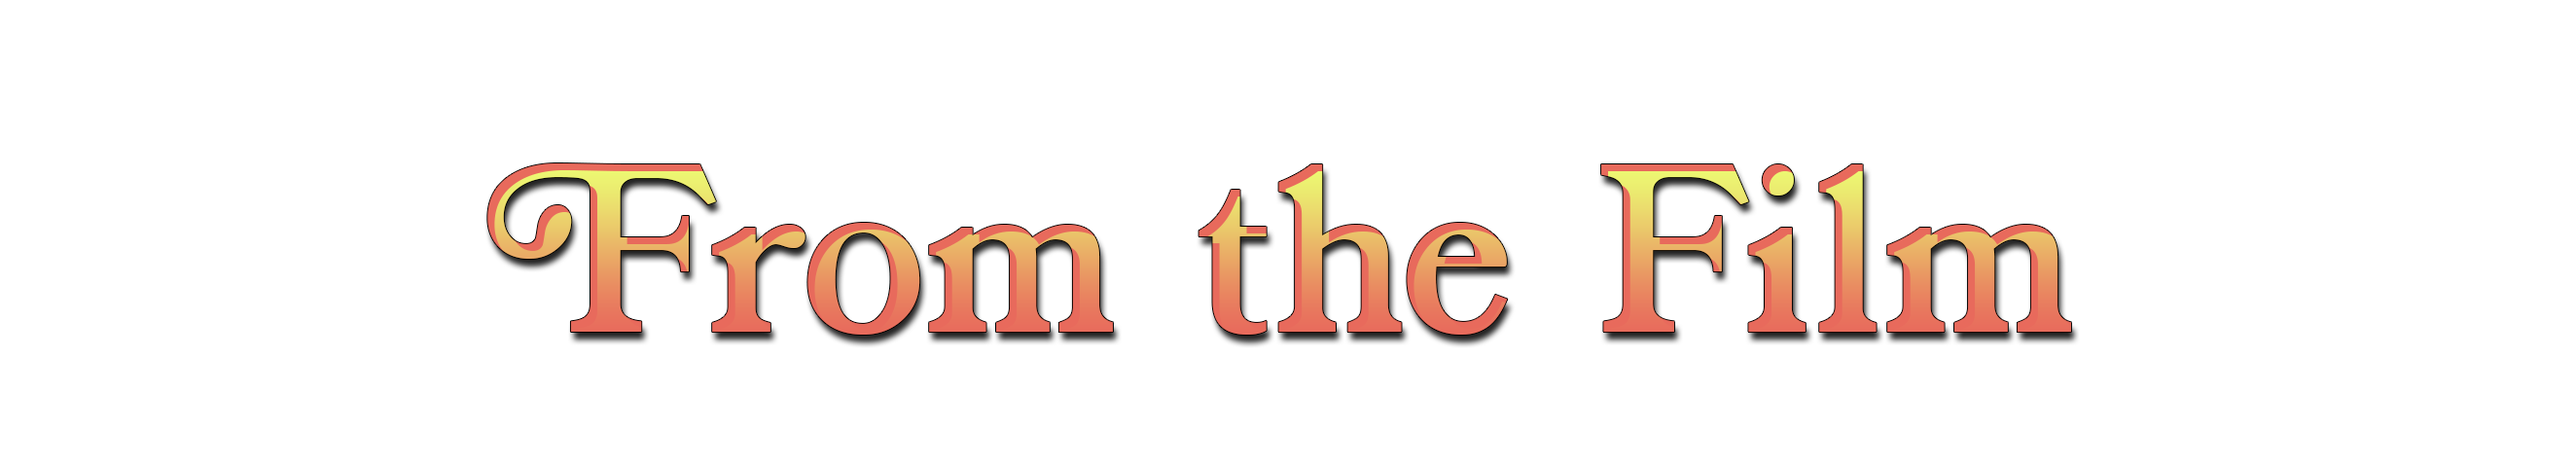
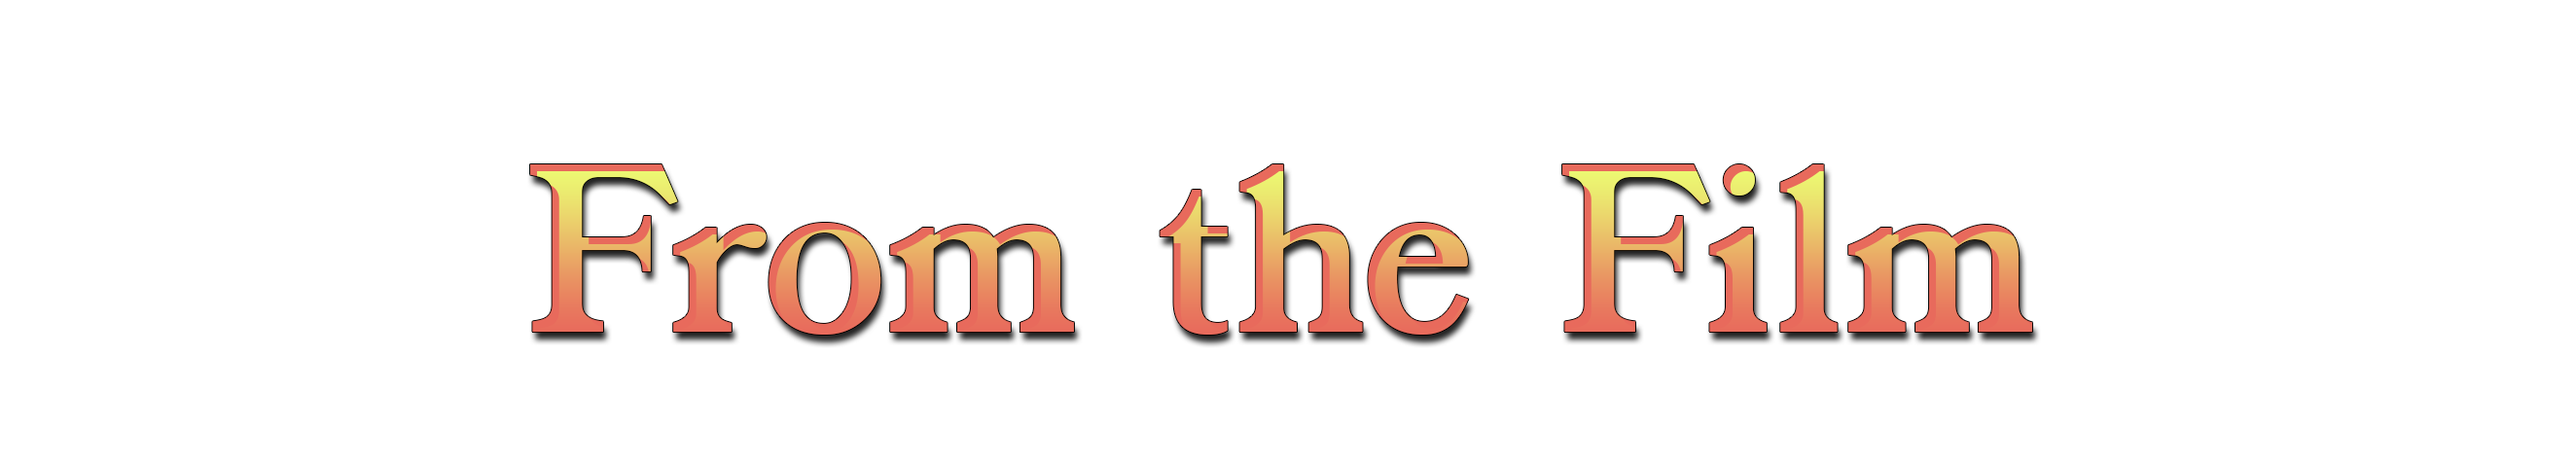
Update some spacing

Changed region(s): [[0.1858, 0.3522, 0.8051, 0.7631]]

diff --git a/src/app/page.tsx b/src/app/page.tsx
@@ -105,13 +105,14 @@ export default function Home() {
         base: 6,
         lg: "192px",
       }}
-      py={{
-        base: 6,
-        lg: 8,
-      }}
     >
-      <Flex justifyContent='center' mb={6}>
-        <HStack spacing={4}>
+      <Flex justifyContent='center' py={6}>
+        <HStack
+          spacing={{
+            base: 10,
+            lg: 12,
+          }}
+        >
           <Flex alignItems='center'>
             <Icon
               as={FaDiscord}
@@ -202,10 +203,9 @@ export default function Home() {
         />
       </AspectRatio>
 
-      <Flex justifyContent='center'>
+      <Flex justifyContent='center' mb={6}>
         <Image
           src='./assets/who-is-bitcoin-title.png'
-          mb={6}
           maxW={{
             base: "100%",
             lg: "600px",
@@ -214,7 +214,7 @@ export default function Home() {
       </Flex>
 
       <Center mb={14}>
-        <Text color='maroon' textAlign='center'>
+        <Text color='maroon' textAlign='center' maxW={600}>
           Here Comes Bitcoin is the central resource for all things Bitcoin
           (puppet, not currency), including license-free creative assets that
           you can use to make anything you want. And we hope you will. If what
@@ -222,10 +222,9 @@ export default function Home() {
         </Text>
       </Center>
 
-      <Flex justifyContent='center'>
+      <Flex justifyContent='center' mb={6}>
         <Image
           src='./assets/make-your-own-asset.png'
-          mb={2}
           maxW={{
             base: "100%",
             lg: "400px",
@@ -233,12 +232,15 @@ export default function Home() {
         />
       </Flex>
 
-      <Text color='maroon' textAlign='center' mb={2}>
-        Need a heavily caricatured bitcoin for your open-source project,
-        conference keynote, or frightening cardboard cutout that lives in your
-        attic? Grab a PNG and have at it. It’s all open-source and license-free.
-        Have a new idea? Submit your own.
-      </Text>
+      <Center>
+        <Text color='maroon' textAlign='center' maxW={600} mb={4}>
+          Need a heavily caricatured bitcoin for your open-source project,
+          conference keynote, or frightening cardboard cutout that lives in your
+          attic? Grab a PNG and have at it. It’s all open-source and
+          license-free. Have a new idea? Submit your own.
+        </Text>
+      </Center>
+
       <Box display='flex' justifyContent='center' mb={14}>
         <Flex wrap='wrap' w='100%'>
           {downloadableAssets.map((asset, key) => (
@@ -247,10 +249,9 @@ export default function Home() {
         </Flex>
       </Box>
 
-      <Flex justifyContent='center'>
+      <Flex justifyContent='center' mb={2}>
         <Image
           src='./assets/from-the-film.png'
-          mb={2}
           maxW={{
             base: "100%",
             lg: "400px",
@@ -258,27 +259,35 @@ export default function Home() {
         />
       </Flex>
 
-      <Text color='maroon' textAlign='center' mb={2}>
-        Enough people requested these during Who is Bitcoin?’s prerelease that
-        we knew they belonged here. While they aren’t as customizable as others
-        assets (yet), they make great wallpapers and rebuttals to anyone who
-        says bitcoiners don’t have a sense of humor about bitcoin.{" "}
-      </Text>
-      <Box display='flex' justifyContent='center' mb={4}>
+      <Center>
+        <Text color='maroon' textAlign='center' mb={4} maxW={600}>
+          Enough people requested these during Who is Bitcoin?’s prerelease that
+          we knew they belonged here. While they aren’t as customizable as
+          others assets (yet), they make great wallpapers and rebuttals to
+          anyone who says bitcoiners don’t have a sense of humor about bitcoin.{" "}
+        </Text>
+      </Center>
+
+      <Box display='flex' justifyContent='center'>
         <Flex wrap='wrap' w='100%'>
-          {showcase.map((asset, key) => (
+          {showcase.map((asset, index) => (
             <Image
               src={asset.src}
               alt={asset.alt}
-              key={key}
+              key={index}
               w={["100%", "50%"]}
               p={3}
             />
           ))}
         </Flex>
       </Box>
-      <Flex justifyContent='center'>
-        <HStack spacing={4}>
+      <Flex justifyContent='center' pt={3} pb={6}>
+        <HStack
+          spacing={{
+            base: 10,
+            lg: 12,
+          }}
+        >
           <Flex alignItems='center'>
             <Icon
               as={FaDiscord}
